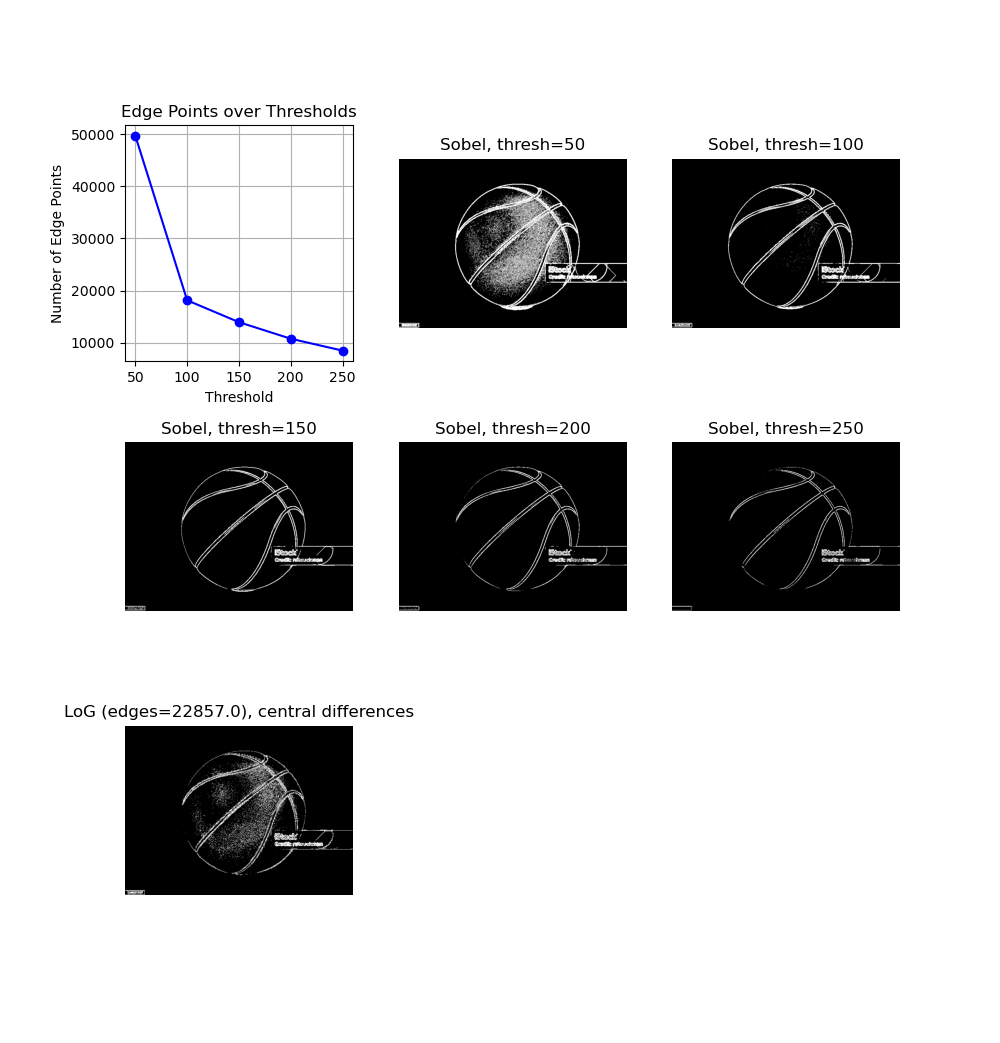
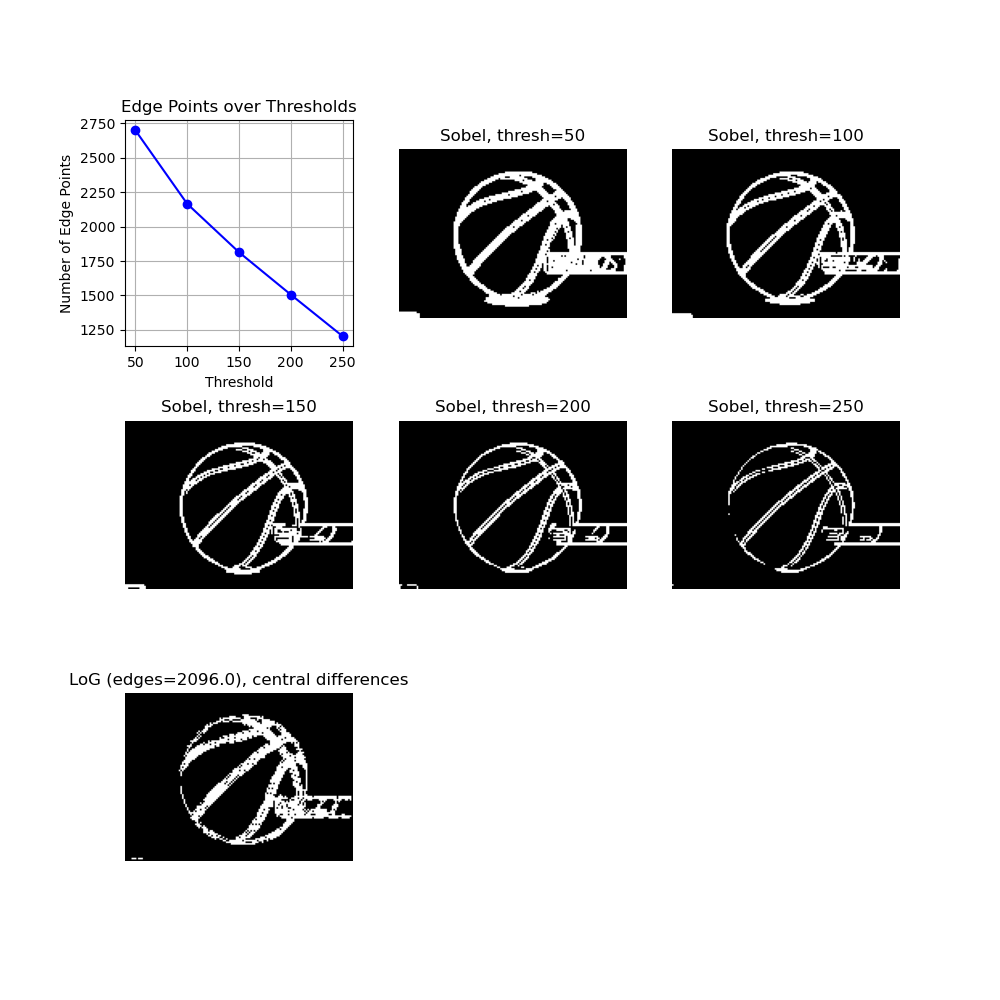
shrunk image more, hough on LoG too

diff --git a/demo.py b/demo.py
@@ -24,7 +24,7 @@ functions to draw the circle.
 
 # Load the image
 img1 = cv.imread('basketball_large.png', cv.IMREAD_GRAYSCALE)
-img = cv.resize(img1, None, None, 0.5, 0.5, cv.INTER_AREA)
+img = cv.resize(img1, None, None, 0.1, 0.1, cv.INTER_AREA)
 print('shape of original img =', img1.shape, '\t shape of shrunken img =', img.shape)
 
 
@@ -91,20 +91,21 @@ R_max = min(img.shape) // 2  # Maximum radius is half of the smallest dimension
 dim = np.array([32, 32, 32])  # Hough space dimensions
 
 # Apply circle detection with different V_min values
-V_min_values = [5*10**2, 2*10**3, 5*10**3, 1*10**4, 5*10**4]
+#V_min_values = [3*10**3, 5*10**3, 1*10**4] #for 0.5 scale
+V_min_values = [500, 750, 1000] #for 0.1 scale
 #V_min_values = [5000]
 
 # Create a new figure for circle detection results
-plt.figure(figsize=(10, 10))
+plt.figure(figsize=(10, 6))
 
 for i, V_min in enumerate(V_min_values):
-    print("Finding circle with hough algorithm ", i, " of ", len(V_min_values), 
+    print("Sobel method finding circle with hough algorithm ", i, " of ", len(V_min_values), 
           " with V_min = ", V_min)
     centers, radii = circ_hough.circ_hough(edge_img_for_hough, R_max, dim, V_min)
 
     plt.subplot(2, 3, i+1)
     plt.imshow(img, cmap='gray')
-    plt.title(f'Circle Detection (V_min={V_min})')
+    plt.title(f'Sobel Circle Detection (V_min={V_min})')
 
     # Draw detected circles
     ax = plt.gca()
@@ -116,9 +117,31 @@ for i, V_min in enumerate(V_min_values):
 
     # Print information about detected circles
     print("V_min =", V_min, "\tDetected ", len(radii), " circles")
-    #for j, (center, radius) in enumerate(zip(centers, radii)):
-        #print("Circle {j+1}: center = ({center[0]:.1f}, {center[1]:.1f}), radius = {radius:.1f}")
 
 plt.tight_layout()
 plt.show()
+plt.figure(figsize=(10, 6))
 
+V_min_values = [600, 800, 1000] #for 0.1 scale
+for i, V_min in enumerate(V_min_values):
+    print("LoG method finding circle with hough algorithm ", i, " of ", len(V_min_values), 
+          " with V_min = ", V_min)
+    centers, radii = circ_hough.circ_hough(log_edge_img, R_max, dim, V_min)
+
+    plt.subplot(2, 3, i+1)
+    plt.imshow(img, cmap='gray')
+    plt.title(f'LoG Circle Detection (V_min={V_min})')
+
+    # Draw detected circles
+    ax = plt.gca()
+    for center, radius in zip(centers, radii):
+        circle = Circle([center[0], center[1]], radius, fill=False, color='red', linewidth=2)
+        ax.add_patch(circle)
+
+    plt.axis('off')
+
+    # Print information about detected circles
+    print("V_min =", V_min, "\tDetected ", len(radii), " circles")
+
+plt.tight_layout()
+plt.show()

diff --git a/circ_hough.py b/circ_hough.py
@@ -64,8 +64,8 @@ def circ_hough(in_img_array: np.ndarray, R_max: float, dim: np.ndarray,
     if len(centers) == 0 and np.max(vote) > 0:
         ### Uncomment this code to return the most voted circle if V_min is too high ###
 #        # Find the bin with the maximum votes
-#        max_indices = np.unravel_index(np.argmax(vote), vote.shape)
-#        a_idx, b_idx, r_idx = max_indices
+        max_indices = np.unravel_index(np.argmax(vote), vote.shape)
+        a_idx, b_idx, r_idx = max_indices
 #        
 #        # Convert to image coordinates
 #        center_x = (a_idx + 0.5) * cols_step
@@ -76,6 +76,6 @@ def circ_hough(in_img_array: np.ndarray, R_max: float, dim: np.ndarray,
 #        radii.append(radius)
         
         print(f"No circles found with votes >= {V_min}.")
-        #print("Returning best match with {vote[a_idx, b_idx, r_idx]} votes.")
+        print(f"Best match with {vote[a_idx, b_idx, r_idx]} votes.")
     
     return np.array(centers), np.array(radii)
